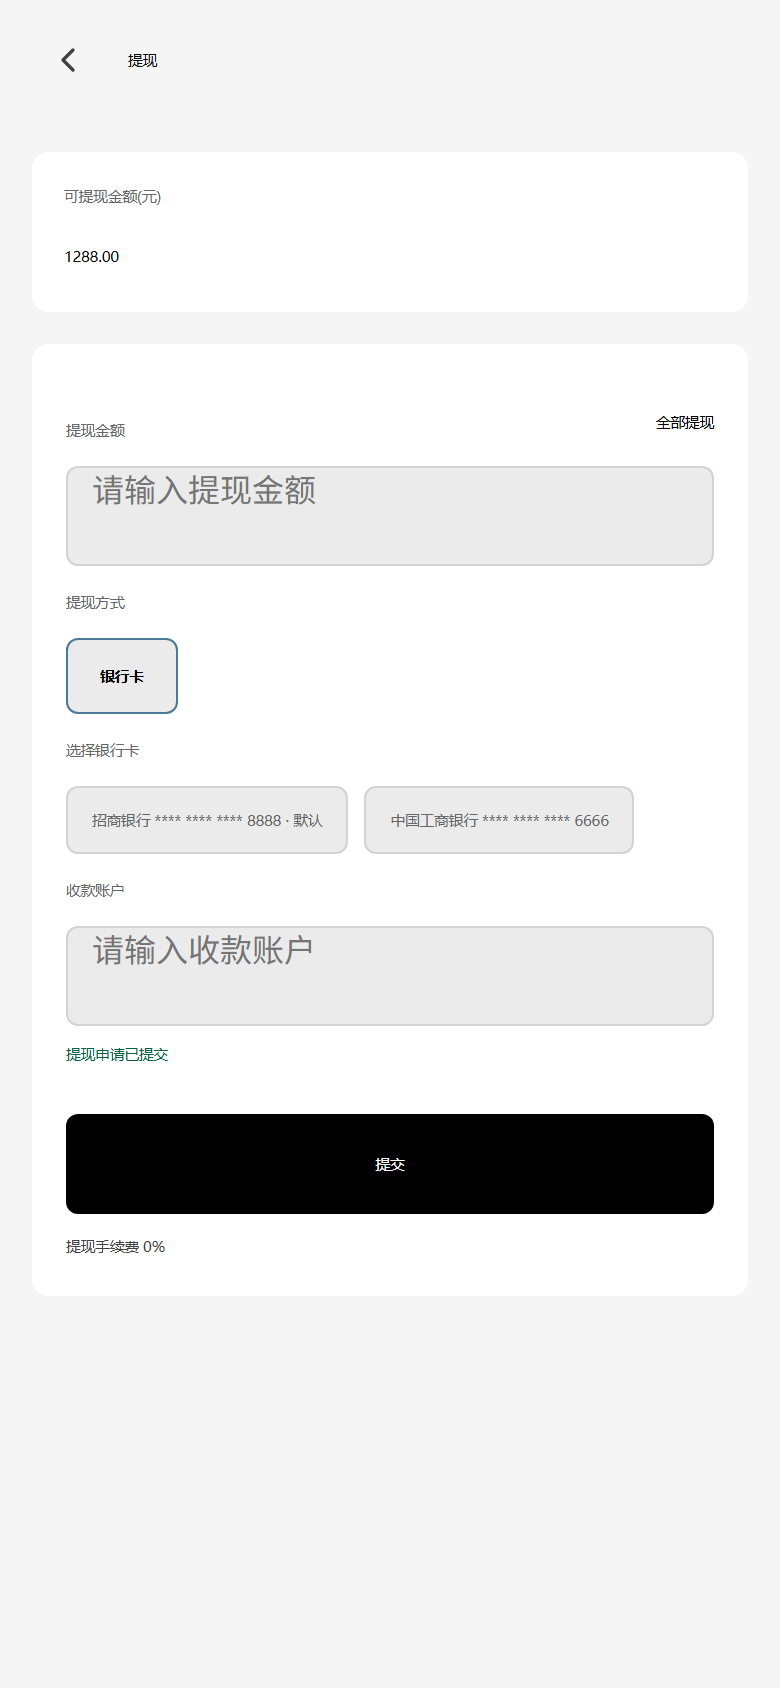
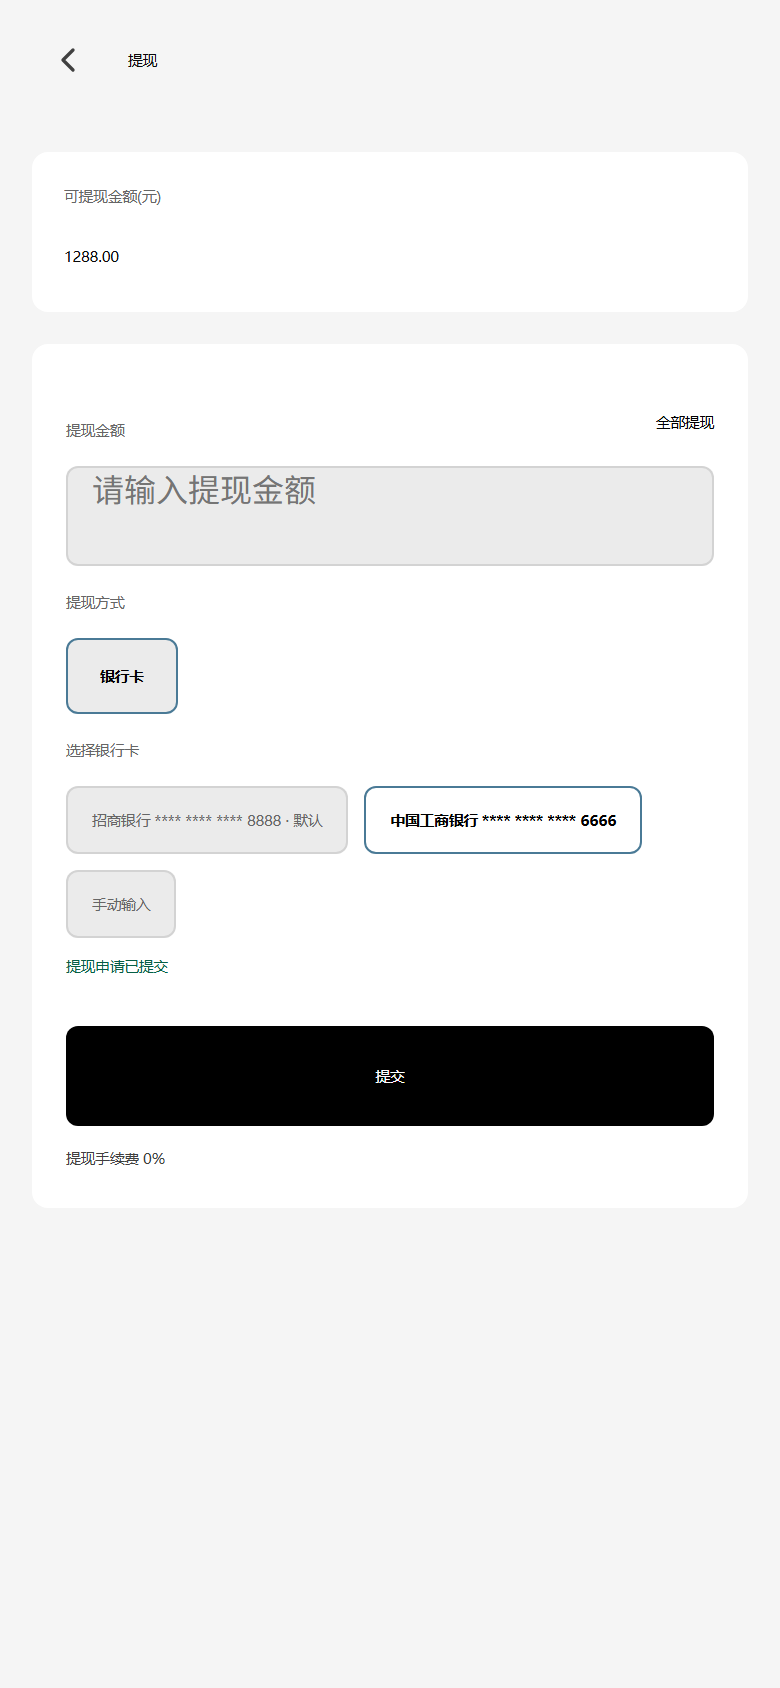
fix(h5): 修复确认弹层 0 宽,补真实指针验收与成功态
- rn-compat Modal transparent 内容层补 width:100%,BottomPops root 补 width:100%
- H5 确认弹层可完整显示并由 Playwright 真实 click 提交
- 成功后保留 selectedBankCardId,不再回退到空收款账户输入框
- 补确认态截图,H5 报告与主报告记录验收结果
- weapp 私有产物重建成功,成功分支保留 bankCardId

Changed region(s): [[0.0615, 0.5237, 0.9231, 0.7393], [0.4615, 0.4621, 0.8308, 0.5237]]

diff --git a/apps/miniapp-taro/src/rn-compat/primitives.tsx b/apps/miniapp-taro/src/rn-compat/primitives.tsx
@@ -1341,7 +1341,10 @@ export function Modal(props: RNBaseProps) {
           onClick={onBack}
         />
       ) : null}
-      <View style={transparent ? undefined : { flex: 1 }}>{props.children}</View>
+      {/* 透明 Modal 的内容层此前是裸 View:overlay 用 alignItems:center 收缩,裸 View 宽度=0,
+          其后再挂 BottomPops 的 absolute left/right:0 sheet 就被压成 0 宽(标题 x=195/宽 0)。
+          RN Modal 的内容层语义上就是满屏,这里显式 width:100% 交给子内容,布局不再由内容反推。 */}
+      <View style={{ flex: 1, width: '100%' }}>{props.children}</View>
     </View>
   )
   /**

diff --git a/apps/mobile-rn/src/components/BottomPops.tsx b/apps/mobile-rn/src/components/BottomPops.tsx
@@ -359,6 +359,10 @@ export function AppConfirmHost() {
 const styles = StyleSheet.create({
   root: {
     flex: 1,
+    // H5/Taro 的 RN Modal 宿主会把内容层 shrink-wrap:本件只有 absolute 的 sheet 子节点,
+    // 不给根层显式宽度时 sheet 的 left:0/right:0 会落到 0 宽(标题 x=195、w=0,视觉整层消失)。
+    // 原生端 100% 即屏幕宽,布局语义不变;H5 端才真正把 sheet 撑回满宽。
+    width: '100%',
     justifyContent: 'flex-end',
   } as ViewStyle,
   mask: {

diff --git a/apps/mobile-rn/src/screens/WithdrawScreen.tsx b/apps/mobile-rn/src/screens/WithdrawScreen.tsx
@@ -127,7 +127,8 @@ export function WithdrawScreen() {
       setSuccess(t('withdraw.success'))
       setAmount('')
       setAccountInfo('')
-      setSelectedBankCardId('')
+      // 保留 selectedBankCardId:成功后清空选卡会让共享屏回退到「收款账户」手输框,
+      // H5 实拍会出现一张空输入框(用户刚用过的卡反而不见了)。金额清空即可,卡继续选中。
       return 'ok'
     } catch {
       setError(t('withdraw.failed'))
